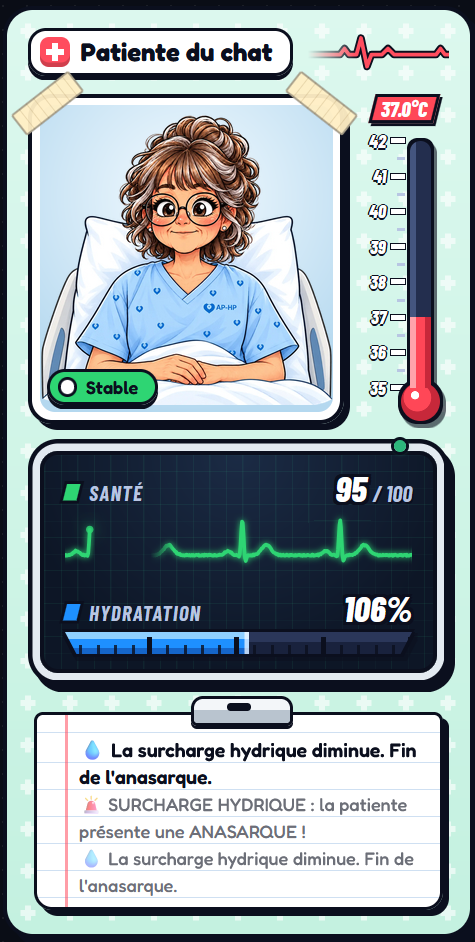
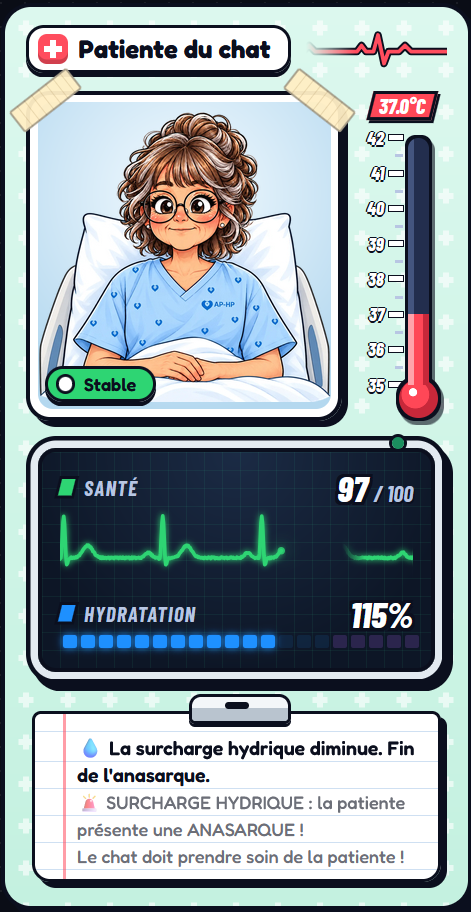
Show hydration as lit cells aligned on the monitor grid

diff --git a/so.css b/so.css
@@ -18,17 +18,11 @@
     --texte-doux: #b8c6e3;
     --orange: #ffa502;
     --vert: #2ed573;
-    --vert-clair: #8dffb9;
-    --vert-sombre: #1c9f55;
     --bleu: #1e90ff;
-    --bleu-clair: #8fd0ff;
-    --bleu-sombre: #1565c9;
     --rouge: #ff4757;
     --rouge-clair: #ffa3ab;
     --rouge-sombre: #c7283a;
     --violet: #a55eea;
-    --violet-clair: #dcb8ff;
-    --violet-sombre: #7a3cc0;
     --contour:
         drop-shadow(2px 0 0 var(--encre))
         drop-shadow(-2px 0 0 var(--encre))
@@ -235,7 +229,7 @@
     transform: rotate(38deg);
 }
 
-/* Les barres et le thermomètre gardent leur style HUD. */
+/* Le moniteur et le thermomètre gardent leur style HUD. */
 .thermometer,
 .stats-container {
     font-family: "Barlow Condensed", "Arial Narrow", sans-serif;
@@ -369,20 +363,22 @@
 }
 
 /* ==========================================
-   BARRES CRANTÉES
+   MONITEUR : ONDE CARDIAQUE ET CASES D'HYDRATATION
    ========================================== */
 
-/* Écran du moniteur de chevet, avec sa coque et son voyant. */
+/* Écran du moniteur de chevet, avec sa coque et son voyant.
+   Toutes les hauteurs sont des multiples de 12 px pour que les cases
+   d'hydratation tombent exactement sur le quadrillage. */
 .stats-container {
     position: relative;
     display: flex;
     flex-direction: column;
-    gap: 8px;
+    gap: 12px;
     margin: 0 8px;
-    padding: 10px 10px 6px;
+    padding: 12px;
     background:
-        linear-gradient(rgba(61, 220, 151, 0.07) 1px, transparent 1px) 0 0 / 100% 11px,
-        linear-gradient(90deg, rgba(61, 220, 151, 0.07) 1px, transparent 1px) 0 0 / 11px 100%,
+        linear-gradient(rgba(61, 220, 151, 0.07) 1px, transparent 1px) 0 0 / 100% 12px,
+        linear-gradient(90deg, rgba(61, 220, 151, 0.07) 1px, transparent 1px) 0 0 / 12px 100%,
         radial-gradient(circle at 50% 0%, #1b2b45, #0d1626 75%);
     border: 3px solid var(--encre);
     border-radius: 12px;
@@ -414,7 +410,6 @@
 
 .stat-group {
     --couleur: var(--vert);
-    padding: 0 4px 4px;
 }
 
 .stat-hydro {
@@ -424,9 +419,9 @@
 .stat-label {
     display: flex;
     justify-content: space-between;
-    align-items: flex-end;
+    align-items: center;
     gap: 8px;
-    margin-bottom: 4px;
+    height: 24px;
     line-height: 1;
 }
 
@@ -434,7 +429,6 @@
     display: inline-flex;
     align-items: center;
     gap: 7px;
-    padding-bottom: 2px;
     color: var(--texte-doux);
     font-size: 14px;
     font-weight: 700;
@@ -475,7 +469,7 @@
 .hp-wave {
     display: block;
     width: 100%;
-    height: 40px;
+    height: 48px;
     color: var(--vert);
 }
 
@@ -487,74 +481,49 @@
     color: var(--rouge);
 }
 
-.bar {
-    filter: var(--contour) drop-shadow(2px 3px 0 rgba(11, 15, 30, 0.6));
+/* Hydratation : une case de 12 px par tranche de 10 %, de 0 à 200 %.
+   Les cases au-delà du seuil d'anasarque restent teintées de violet. */
+.hydro-cells {
+    --case: var(--bleu);
+    display: flex;
+    height: 12px;
 }
 
-.bar-bg {
-    --crans: 10;
-    --majeurs: 2;
+.hydro-cells.surcharge {
+    --case: var(--violet);
+}
+
+.hydro-cells.critique {
+    --case: var(--rouge);
+    animation: alerte 0.8s steps(2) infinite;
+}
+
+.hydro-cell {
     position: relative;
-    height: 15px;
-    background: linear-gradient(180deg, #2b375a 0 45%, #19223d 45%);
-    clip-path: polygon(0 0, 100% 0, calc(100% - 8px) 100%, 8px 100%);
+    flex: none;
+    width: 12px;
+    height: 12px;
 }
 
-/* Hydratation : un cran tous les 10 % jusqu'à 200 %, grands crans à 50, 100 et 150 %. */
-.stat-hydro .bar-bg {
-    --crans: 20;
-    --majeurs: 4;
-}
-
-.bar-bg::after {
+.hydro-cell::before {
     content: "";
     position: absolute;
-    top: 0;
-    right: 0;
-    bottom: 0;
-    left: 0;
-    pointer-events: none;
-    background:
-        repeating-linear-gradient(
-            90deg,
-            transparent 0 calc(100% / var(--majeurs) - 3px),
-            var(--encre) calc(100% / var(--majeurs) - 3px) calc(100% / var(--majeurs))
-        ) left bottom / 100% 75% no-repeat,
-        repeating-linear-gradient(
-            90deg,
-            transparent 0 calc(100% / var(--crans) - 2px),
-            rgba(11, 15, 30, 0.8) calc(100% / var(--crans) - 2px) calc(100% / var(--crans))
-        ) left bottom / 100% 42% no-repeat;
+    top: 2px;
+    left: 2px;
+    width: 9px;
+    height: 9px;
+    border-radius: 1.5px;
+    background: rgba(30, 144, 255, 0.1);
+    transition: background-color 0.3s ease, box-shadow 0.3s ease;
 }
 
-.bar-fill {
-    --clair: var(--vert-clair);
-    --base: var(--vert);
-    --sombre: var(--vert-sombre);
-    width: 0;
-    height: 100%;
-    background: linear-gradient(180deg, var(--clair) 0 30%, var(--base) 30% 72%, var(--sombre) 72%);
-    box-shadow: inset -3px 0 0 rgba(255, 255, 255, 0.7);
-    transition: width 0.4s ease;
+.hydro-cell.zone-surcharge::before {
+    background: rgba(165, 94, 234, 0.2);
 }
 
-.bar-fill.hydro {
-    --clair: var(--bleu-clair);
-    --base: var(--bleu);
-    --sombre: var(--bleu-sombre);
-}
-
-.bar-fill.surcharge {
-    --clair: var(--violet-clair);
-    --base: var(--violet);
-    --sombre: var(--violet-sombre);
-}
-
-.bar-fill.critique {
-    --clair: var(--rouge-clair);
-    --base: var(--rouge);
-    --sombre: var(--rouge-sombre);
-    animation: alerte 0.8s steps(2) infinite;
+.hydro-cell.on::before {
+    background: var(--case);
+    box-shadow: 0 0 5px var(--case);
 }
 
 @keyframes alerte {

diff --git a/so.js b/so.js
@@ -20,6 +20,7 @@ const IMAGES = {
 // ==========================================
 
 const HYDRO_MAX = 200;
+const HYDRO_CASE = 10;
 const ANASARQUE_SEUIL = 150;
 const ANASARQUE_SORTIE = 120;
 const THERMO_MIN = 35;
@@ -156,21 +157,37 @@ function showLog(message) {
 // BARRES ET AFFICHAGE
 // ==========================================
 
-function setBar(valueId, barId, value, max = 100) {
-  const valueElement = document.getElementById(valueId);
-  const barElement = document.getElementById(barId);
+// L'hydratation s'affiche en cases de la grille du moniteur,
+// une case par tranche de HYDRO_CASE % entamée.
+function buildHydroCells() {
+  const container = document.getElementById("hydro-cells");
+  if (!container) return;
+
+  container.innerHTML = "";
+
+  for (let level = HYDRO_CASE; level <= HYDRO_MAX; level += HYDRO_CASE) {
+    const cell = document.createElement("span");
+    cell.className = level > ANASARQUE_SEUIL
+      ? "hydro-cell zone-surcharge"
+      : "hydro-cell";
+    container.appendChild(cell);
+  }
+}
+
+function setHydroCells(hydro) {
+  const valueElement = document.getElementById("hydro-val");
+  const container = document.getElementById("hydro-cells");
 
   if (valueElement) {
-    valueElement.textContent = value;
+    valueElement.textContent = Math.round(hydro) + "%";
   }
 
-  if (barElement) {
-    const numericValue = parseFloat(value);
-    const percentage = Number.isNaN(numericValue)
-      ? 0
-      : Math.max(0, Math.min(100, (numericValue / max) * 100));
+  if (container) {
+    const lit = Math.ceil(hydro / HYDRO_CASE);
 
-    barElement.style.width = percentage + "%";
+    Array.from(container.children).forEach((cell, index) => {
+      cell.classList.toggle("on", index < lit);
+    });
   }
 }
 
@@ -488,19 +505,13 @@ function updatePatient() {
     hpValue.textContent = Math.round(state.hp);
   }
 
-  setBar(
-    "hydro-val",
-    "hydro-bar",
-    Math.round(state.hydro) + "%",
-    HYDRO_MAX
-  );
-
+  setHydroCells(state.hydro);
   setThermometer(state.temp);
 
   toggleClass("hp-wave", "faible", state.hp <= 60);
   toggleClass("hp-wave", "critique", state.hp <= 30 || state.arret);
-  toggleClass("hydro-bar", "critique", state.hydro <= 25);
-  toggleClass("hydro-bar", "surcharge", state.anasarque);
+  toggleClass("hydro-cells", "critique", state.hydro <= 25);
+  toggleClass("hydro-cells", "surcharge", state.anasarque);
   toggleClass("thermometer", "fievre", state.temp >= 39);
 
   const status = document.getElementById("patient-status");
@@ -975,6 +986,7 @@ window.addEventListener("onEventReceived", function (obj) {
 // ==========================================
 
 buildThermometerScale();
+buildHydroCells();
 updatePatient();
 startHeartMonitor();
 

diff --git a/so.html b/so.html
@@ -43,11 +43,7 @@
                         <span id="hydro-val" class="stat-value">80%</span>
                     </span>
                 </div>
-                <div class="bar">
-                    <div class="bar-bg">
-                        <div id="hydro-bar" class="bar-fill hydro"></div>
-                    </div>
-                </div>
+                <div id="hydro-cells" class="hydro-cells"></div>
             </div>
 
         </div>

diff --git a/README.md b/README.md
@@ -3,7 +3,7 @@
 Mini-jeu Twitch sous forme de **widget personnalisé StreamElements** : les viewers soignent une patiente virtuelle en tapant des commandes dans le chat. Ils doivent la garder en vie en surveillant sa santé, son hydratation et sa température, et réagir aux urgences (étouffement, arrêt cardiaque…).
 
 <p align="center">
-    <img src="image.png" alt="Aperçu du widget : photo de la patiente, thermomètre, moniteur avec les barres Santé et Hydratation, feuille de soins" width="300">
+    <img src="image.png" alt="Aperçu du widget : photo de la patiente, thermomètre, moniteur avec l'onde de santé et les cases d'hydratation, feuille de soins" width="300">
 </p>
 
 Le widget affiche :
@@ -13,10 +13,10 @@ Le widget affiche :
 - le statut sur un bracelet d'identification (vert, orange, rouge ou bleu) posé sur la photo ;
 - l'écran d'un moniteur de chevet avec :
   - la **Santé** sous forme d'onde cardiaque animée : verte et régulière en bonne santé, orange et plus rapide à 60 PV ou moins, rouge, rapide et irrégulière à 30 PV ou moins, et plate pendant un arrêt cardiaque ;
-  - l'**Hydratation** sous forme de barre crantée (un cran tous les 10 % jusqu'à 200 %, grand cran à 150 % pour le seuil d'anasarque), qui clignote en rouge à 25 % ou moins et passe en violet pendant l'anasarque ;
+  - l'**Hydratation** sous forme de 20 cases du quadrillage de l'écran, une par tranche de 10 % jusqu'à 200 %. Les cases allumées sont bleues, rouges et clignotantes à 25 % ou moins, et violettes pendant l'anasarque. Les 5 dernières cases (au-delà de 150 %) restent teintées de violet pour signaler la zone de danger ;
 - une feuille de soins sur porte-bloc avec les 3 derniers événements.
 
-Le style est celui d'un hôpital cartoon : mur vert menthe, plaque du service avec croix rouge, électrocardiogramme qui défile, photo fixée au sparadrap, contours épais et ombres nettes. Les barres et le thermomètre gardent un style de HUD de jeu vidéo. Les polices [Fredoka](https://fonts.google.com/specimen/Fredoka) et [Barlow Condensed](https://fonts.google.com/specimen/Barlow+Condensed) sont chargées depuis Google Fonts.
+Le style est celui d'un hôpital cartoon : mur vert menthe, plaque du service avec croix rouge, électrocardiogramme qui défile, photo fixée au sparadrap, contours épais et ombres nettes. Le moniteur et le thermomètre gardent un style de HUD de jeu vidéo. Les polices [Fredoka](https://fonts.google.com/specimen/Fredoka) et [Barlow Condensed](https://fonts.google.com/specimen/Barlow+Condensed) sont chargées depuis Google Fonts.
 
 ## Installation dans StreamElements
 
@@ -100,7 +100,7 @@ Une patiente intubée ne peut ni manger ni boire : il faut l'hydrater avec `!per
 
 ### Anasarque (surcharge hydrique)
 
-L'anasarque apparaît quand l'hydratation atteint **150 %** et ne disparaît que lorsqu'elle redescend à **120 %** ou moins. La jauge d'hydratation est pleine à 200 %, avec un grand cran à 150 %.
+L'anasarque apparaît quand l'hydratation atteint **150 %** et ne disparaît que lorsqu'elle redescend à **120 %** ou moins. Sur le moniteur, la 15ᵉ case marque ce seuil.
 
 ### Statut affiché
 
@@ -127,6 +127,7 @@ Tout se règle en haut de `so.js` :
 
 - `IMAGES` : URL de l'image pour chaque état. Pour changer une image, téléversez-la dans StreamElements et remplacez l'URL.
 - `HYDRO_MAX` : hydratation maximale (200).
+- `HYDRO_CASE` : pourcentage d'hydratation représenté par une case du moniteur (10). Avec un autre réglage, il faudra adapter la largeur du moniteur, qui contient 20 cases de 12 px.
 - `ANASARQUE_SEUIL` / `ANASARQUE_SORTIE` : seuils d'apparition (150) et de disparition (120) de l'anasarque.
 - `THERMO_MIN` / `THERMO_MAX` : graduations basse (35) et haute (42) du thermomètre.
 - `WAVE_SPEED` / `WAVE_GAP` / `WAVE_FADE` : vitesse de l'onde cardiaque (80 px/s), largeur du trou devant le point d'écriture (40 px) et longueur du fondu de l'ancien tracé (15 px).
@@ -171,7 +172,7 @@ window.dispatchEvent(new CustomEvent("onEventReceived", {
 ## Structure du projet
 
 ```
-so.html   Structure du widget (image, thermomètre, badge, jauges, journal)
+so.html   Structure du widget (image, thermomètre, bracelet, moniteur, journal)
 so.css    Apparence du widget
 so.js     Logique du jeu, commandes du chat et mise à jour de l'affichage
 atelier/  Simulateur local « Atelier : Clone n°3 de Sophie »
